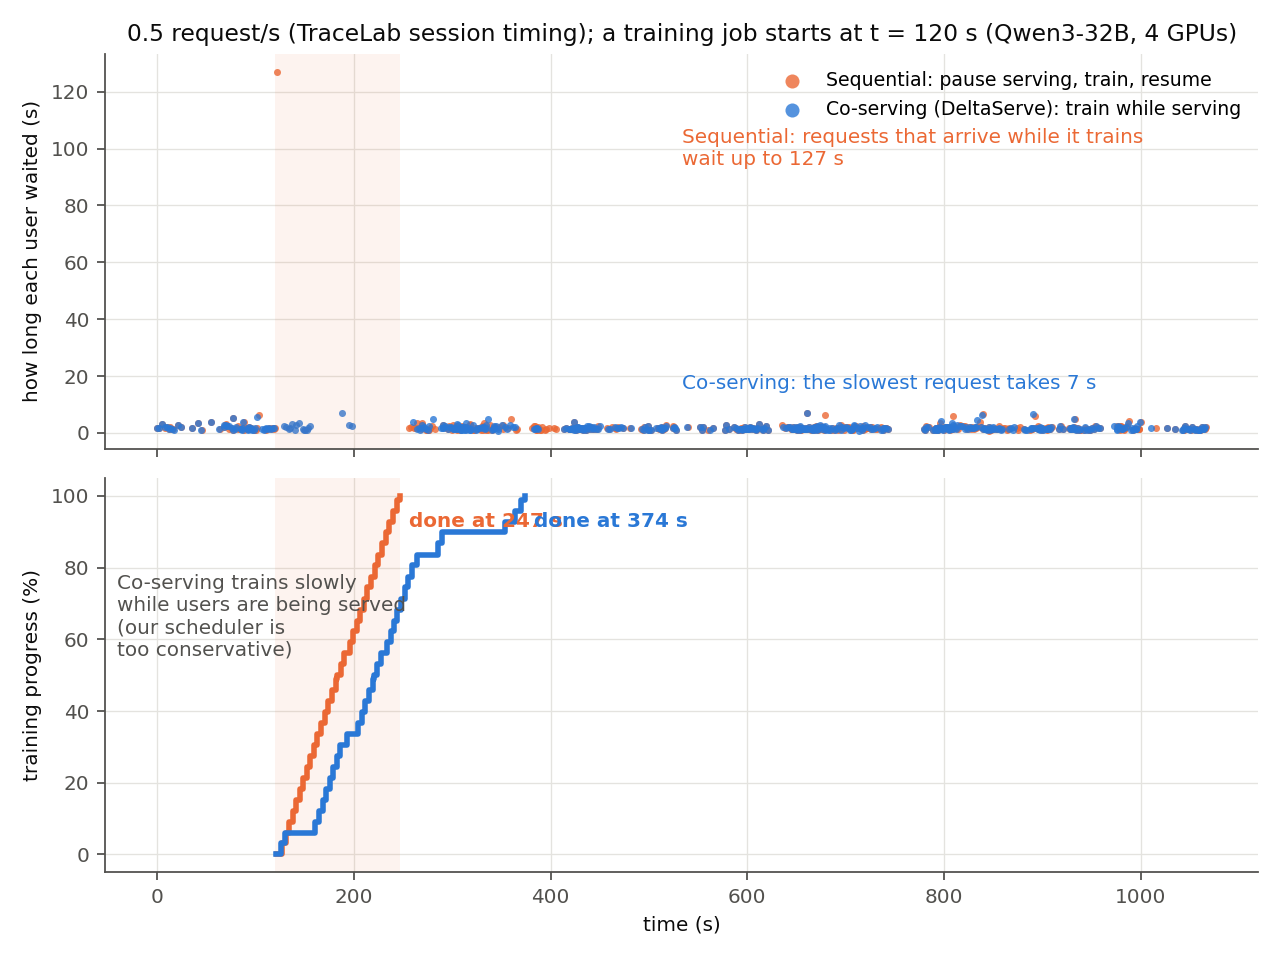
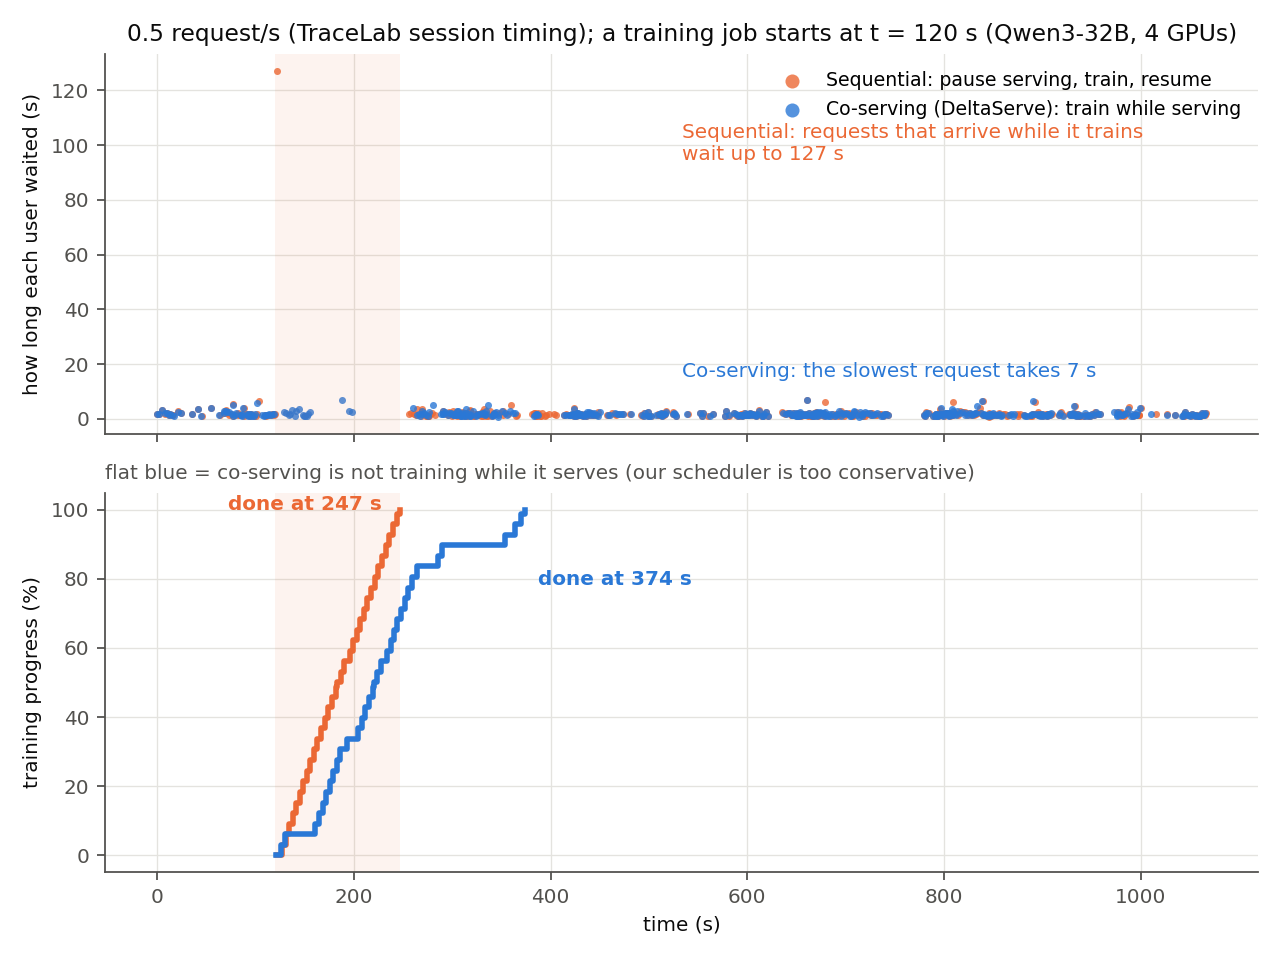
deltaserve: explainer figures — keep labels off the curves

diff --git a/deltaserve/scripts/plot_rsi_poisson_simple.py b/deltaserve/scripts/plot_rsi_poisson_simple.py
@@ -19,7 +19,7 @@ for m in ("seq", "co"):
     ax[1].plot(np.r_[v[m]["ft"]["t_ft_start"], v[m]["bt"]], np.r_[0, 100 * v[m]["btok"] / v[m]["btok"][-1]],
                color=COLOR[m], lw=2.5, drawstyle="steps-post", label=name[m])
     t = v[m]["ft"]["t_ft_end"]
-    ax[1].annotate(f"done at {t:.0f} s", (t, 100), textcoords="offset points", xytext=(4, -14),
+    ax[1].annotate(f"done at {t:.0f} s", (t, 100), textcoords="offset points", xytext=(-8, 0) if m == "seq" else (6, -34), ha="right" if m == "seq" else "left",
                    color=COLOR[m], fontsize=9, fontweight="bold")
 s = v["seq"]["ft"]
 for a in ax:
@@ -34,8 +34,8 @@ ax[0].set_title(f"{rate} request/s ({arrivals}); a training job starts at t = 12
 ax[0].legend(frameon=False, loc="upper right", fontsize=8.5, markerscale=2)
 ax[1].set_ylabel("training progress (%)")
 ax[1].set_xlabel("time (s)")
-ax[1].text(0.01, 0.55, "Co-serving trains slowly\nwhile users are being served\n(our scheduler is\ntoo conservative)",
-           transform=ax[1].transAxes, color=MUTED, fontsize=9)
+ax[1].set_title("flat blue = co-serving is not training while it serves (our scheduler is too conservative)",
+                fontsize=9, color=MUTED, loc="left")
 fig.tight_layout()
 fig.savefig(f"{run}/fig_simple_r{rate}.png", dpi=160)
 print(f"{run}/fig_simple_r{rate}.png")
